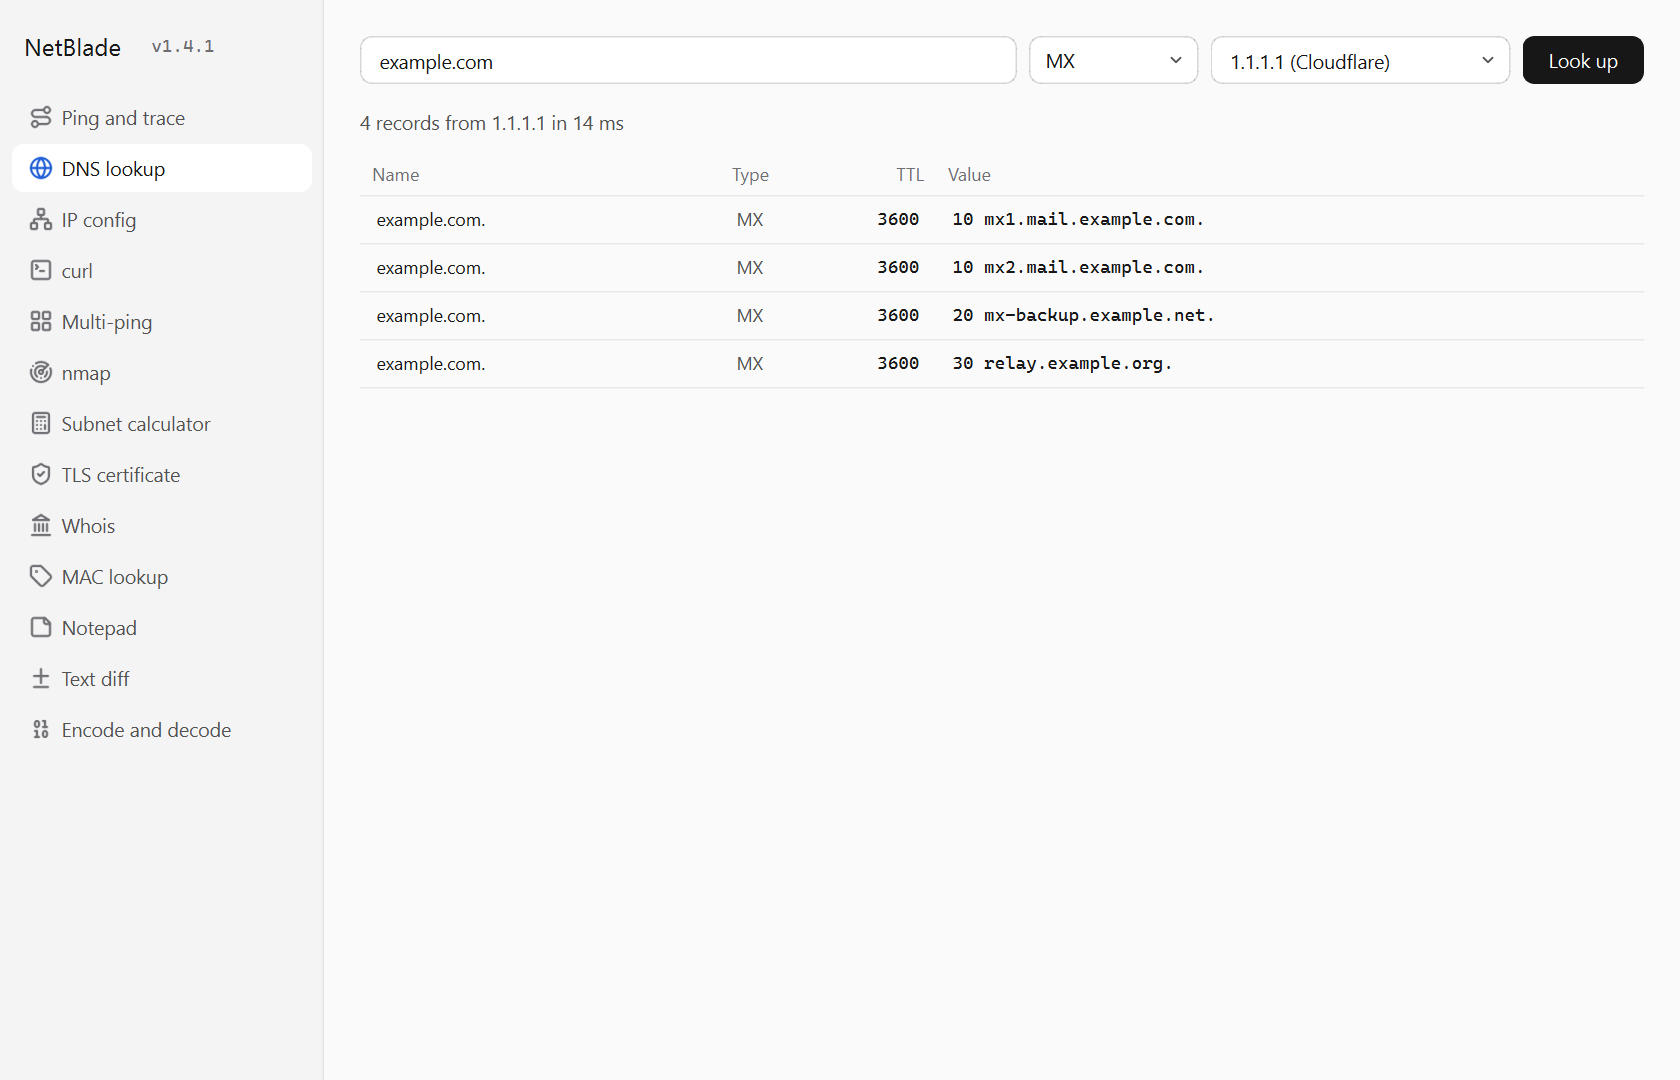
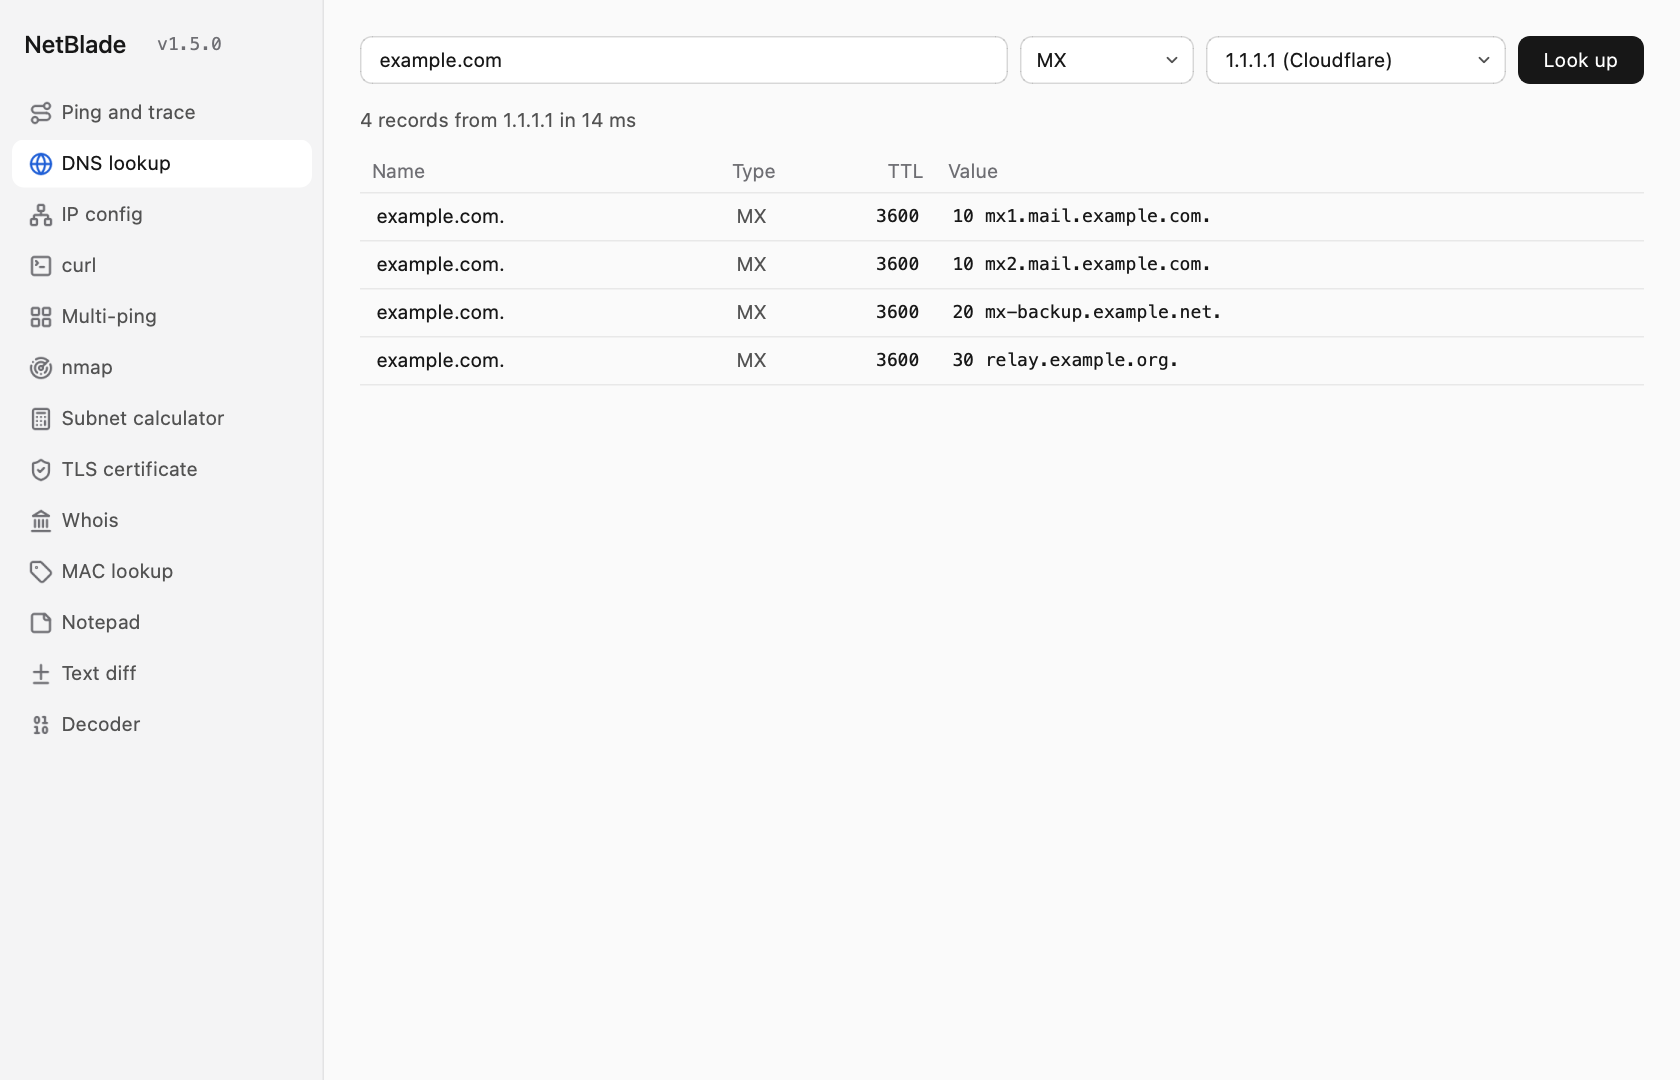
Rename Encode and decode to Decoder
Shorten the sidebar label to match the other one- and two-word tool names, and update the README, site and tests. Retake all screenshots for the new sidebar and rename the decoder pair.

Stop the screenshot script from running the real ipconfig or ifconfig: opening the IP config page started it before the sample data was filled in, so real addresses could appear in the image. The script now marks the page as loaded first and shows the adapter-card view on every system.

Ignore files created by AI coding tools.

diff --git a/docs/index.html b/docs/index.html
@@ -77,7 +77,7 @@
               <li>MAC lookup</li>
               <li>Notepad</li>
               <li>Text diff</li>
-              <li>Encode and decode</li>
+              <li>Decoder</li>
             </ul>
           </aside>
           <div class="page">
@@ -211,7 +211,7 @@
         <li><p class="keys"><kbd>Ctrl</kbd><kbd>0</kbd></p><h4>MAC lookup</h4><p>The vendor of a MAC address, offline after one download.</p></li>
         <li><p class="keys"><span class="mono muted">Sidebar</span></p><h4>Notepad</h4><p>Scratch notes in a monospace font. Saved as you type.</p></li>
         <li><p class="keys"><span class="mono muted">Sidebar</span></p><h4>Text diff</h4><p>Paste two texts and see the different lines, words or characters.</p></li>
-        <li><p class="keys"><span class="mono muted">Sidebar</span></p><h4>Encode and decode</h4><p>Base64, URL and hex both ways. Reads the contents of a JWT.</p></li>
+        <li><p class="keys"><span class="mono muted">Sidebar</span></p><h4>Decoder</h4><p>Base64, URL and hex both ways. Reads the contents of a JWT.</p></li>
         <li class="reorder"><p class="keys"><kbd>Alt</kbd><kbd>↑</kbd><kbd>↓</kbd></p><h4>Your order</h4><p>Drag tools in the sidebar, or move them with the keyboard. The shortcuts follow.</p></li>
       </ol>
     </div>

diff --git a/assets/make_screenshots.py b/assets/make_screenshots.py
@@ -18,7 +18,7 @@ import tempfile
 from pathlib import Path
 
 from PySide6.QtCore import QSettings, QStandardPaths, Qt
-from PySide6.QtWidgets import QApplication
+from PySide6.QtWidgets import QApplication, QWidget
 
 ROOT = Path(__file__).resolve().parent.parent
 sys.path.insert(0, str(ROOT))
@@ -38,6 +38,7 @@ from netblade.core.text_diff import compare
 from netblade.core.tlscheck import CertInfo, TlsResult
 from netblade.ui import theme
 from netblade.ui.curl_page import BODY_VIEW
+from netblade.ui.ipconfig_page import ADAPTERS_VIEW
 from netblade.ui.multiping_page import HostTile
 
 OUT = ROOT / "assets" / "screenshots"
@@ -162,7 +163,11 @@ Ethernet adapter Bluetooth Network Connection:
 
 def fill_ipconfig(window: MainWindow) -> None:
     page = window.ipconfig_page
-    page._loaded = True  # Never run the real ipconfig.
+    # The sample is Windows ipconfig output, so show the Windows adapter-card view on every system.
+    page.structured = True
+    page.findChild(QWidget, "segmented").setVisible(True)
+    page.view_group.button(ADAPTERS_VIEW).setChecked(True)
+    page._set_view(ADAPTERS_VIEW)
     page._on_output(IPCONFIG.strip("\n"))
 
 
@@ -578,7 +583,7 @@ TOOLS = [
     ("mac-lookup", "MAC lookup", fill_mac),
     ("notepad", "Notepad", fill_notepad),
     ("text-diff", "Text diff", fill_diff),
-    ("encode-and-decode", "Encode and decode", fill_codec),
+    ("decoder", "Decoder", fill_codec),
 ]
 
 
@@ -594,6 +599,9 @@ def capture(app: QApplication, scheme: Qt.ColorScheme, suffix: str) -> None:
         str(Path(tempfile.mkdtemp()) / "netblade.ini"), QSettings.Format.IniFormat
     )
     window = MainWindow(settings)
+    # Opening the IP config page runs the real ipconfig or ifconfig in the background, and its
+    # result can arrive after the sample data. Mark the page as loaded before anything is shown.
+    window.ipconfig_page._loaded = True
     window.resize(WIDTH, HEIGHT)
     window.show()
     settle(app)

diff --git a/tests/test_codec.py b/tests/test_codec.py
@@ -1,4 +1,4 @@
-"""Checks Encode and decode: Base64, URL, hex and JWT conversions, errors, format detection and the page."""
+"""Checks Decoder: Base64, URL, hex and JWT conversions, errors, format detection and the page."""
 
 import base64
 import datetime as dt
@@ -353,7 +353,7 @@ def test_page_is_in_the_sidebar(qapp, tmp_path):
 
     window = MainWindow(QSettings(str(tmp_path / "s.ini"), QSettings.Format.IniFormat))
     names = window.tool_names()
-    assert names[-1] == "Encode and decode"
-    window.nav.setCurrentRow(names.index("Encode and decode"))
+    assert names[-1] == "Decoder"
+    window.nav.setCurrentRow(names.index("Decoder"))
     assert window.pages.currentWidget() is window.codec_page
     window.close()

diff --git a/netblade/ui/codec_page.py b/netblade/ui/codec_page.py
@@ -1,4 +1,4 @@
-"""Encode and decode page: Base64, URL percent-encoding, hex and JWT, converted as you type.
+"""Decoder page: Base64, URL percent-encoding, hex and JWT, converted as you type.
 
 The text stays in memory only. Tokens and auth headers are secrets, so it is never saved.
 """

diff --git a/netblade/app.py b/netblade/app.py
@@ -61,7 +61,7 @@ TOOLS = [
     ("MAC lookup", "tag"),
     ("Notepad", "note"),
     ("Text diff", "diff"),
-    ("Encode and decode", "binary"),
+    ("Decoder", "binary"),
 ]
 DEFAULT_ORDER = [name for name, _icon in TOOLS]
 ORDER_KEY = "sidebar/tool_order"

diff --git a/README.md b/README.md
@@ -16,7 +16,7 @@ NetBlade has these tools:
 - **MAC lookup:** the vendor of one or more MAC addresses.
 - **Notepad:** temporary notes in a monospace font. Notes save automatically.
 - **Text diff:** two pasted texts side by side, with the different lines, words or characters marked.
-- **Encode and decode:** Base64, URL encoding and hex in both directions, and the contents of a JWT.
+- **Decoder:** Base64, URL encoding and hex in both directions, and the contents of a JWT.
 
 NetBlade never needs administrator rights. Every tool works for a normal user.
 
@@ -48,7 +48,7 @@ NetBlade never needs administrator rights. Every tool works for a normal user.
 
 Select a tool in the sidebar. Or press **Ctrl+1** to **Ctrl+9** and **Ctrl+0**: **Ctrl+1** opens the top tool in the sidebar, **Ctrl+2** the second tool, and so on. **Ctrl+0** opens the tenth tool. Tools after the tenth have no shortcut. The version shows next to the app name at the top of the sidebar. Select the version to check for updates.
 
-The default order is Ping and trace, DNS lookup, IP config, curl, Multi-ping, nmap, Subnet calculator, TLS certificate, Whois, MAC lookup, Notepad, Text diff and Encode and decode.
+The default order is Ping and trace, DNS lookup, IP config, curl, Multi-ping, nmap, Subnet calculator, TLS certificate, Whois, MAC lookup, Notepad, Text diff and Decoder.
 
 ### Change the order of the tools
 
@@ -373,14 +373,14 @@ Text that is different or only in Text A is red and has a `-` marker. Text that 
 
 **Note:** NetBlade does not save the text. The text is gone when you close NetBlade.
 
-### Encode and decode
+### Decoder
 
 <picture>
-  <source media="(prefers-color-scheme: dark)" srcset="assets/screenshots/encode-and-decode-dark.png">
-  <img src="assets/screenshots/encode-and-decode-light.png" alt="Encode and decode showing a JWT from a Bearer header as a header, payload, claim times and signature" width="840">
+  <source media="(prefers-color-scheme: dark)" srcset="assets/screenshots/decoder-dark.png">
+  <img src="assets/screenshots/decoder-light.png" alt="Decoder showing a JWT from a Bearer header as a header, payload, claim times and signature" width="840">
 </picture>
 
-Encode and decode converts text to and from Base64, URL encoding and hex. It also shows the contents of a JWT. The result updates as you type.
+Decoder converts text to and from Base64, URL encoding and hex. It also shows the contents of a JWT. The result updates as you type.
 
 1. Select **Decode** or **Encode**.
 2. Select the format:
@@ -432,8 +432,8 @@ When a newer release is found, the version stays in the accent colour until you 
   - **My public IP** (Whois): `api.ipify.org`. It sends no data. The service sees your public IP address.
   - **Download vendor list** (MAC lookup): the IEEE vendor files (`standards-oui.ieee.org`). It sends no data. Lookups then work offline.
   - **Check for updates:** the latest release of NetBlade (`api.github.com`). It sends no data.
-- IP config, Subnet calculator, Notepad, Text diff and Encode and decode work offline.
-- Text diff and Encode and decode do not save your text.
+- IP config, Subnet calculator, Notepad, Text diff and Decoder work offline.
+- Text diff and Decoder do not save your text.
 - Notes and the vendor list are stored in your user folder. On Windows, this is `%LOCALAPPDATA%\NetBlade\NetBlade`. The sidebar order is stored in your user settings.
 
 ## Known limitations
@@ -451,8 +451,8 @@ When a newer release is found, the version stays in the accent colour until you 
 - MAC lookup needs the IEEE vendor list, which you download once.
 - Text diff compares up to 20,000 lines per text. Long lines scroll sideways and do not wrap.
 - Text diff marks words and characters only in lines up to 2,000 characters. A very large block of different lines shows as lines only in Text A and lines only in Text B, with no inner marks. The line above the results tells you when this occurs.
-- Encode and decode accepts up to 10,000,000 characters. A hex dump shows the first 65,536 bytes.
-- Encode and decode encodes text as UTF-8. It cannot encode the contents of a file.
+- Decoder accepts up to 10,000,000 characters. A hex dump shows the first 65,536 bytes.
+- Decoder encodes text as UTF-8. It cannot encode the contents of a file.
 
 ## Run From Source
 
